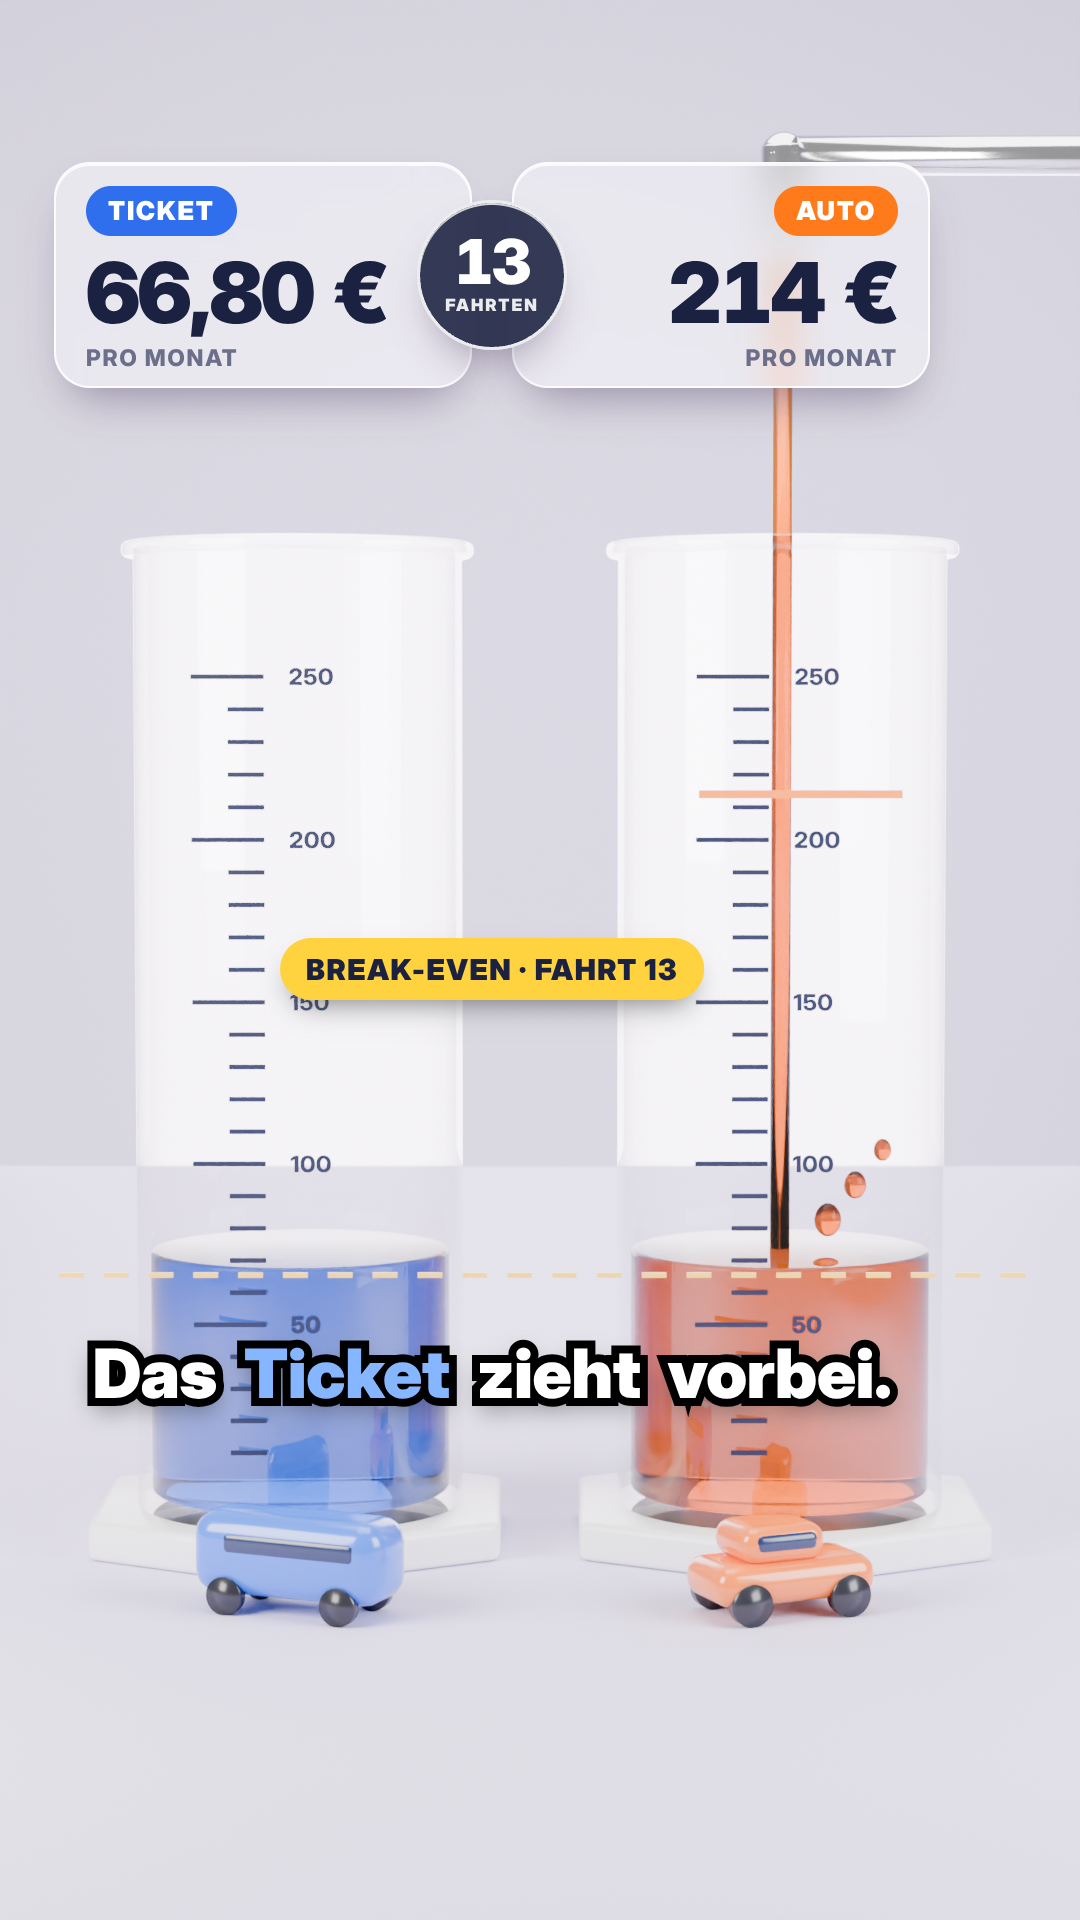
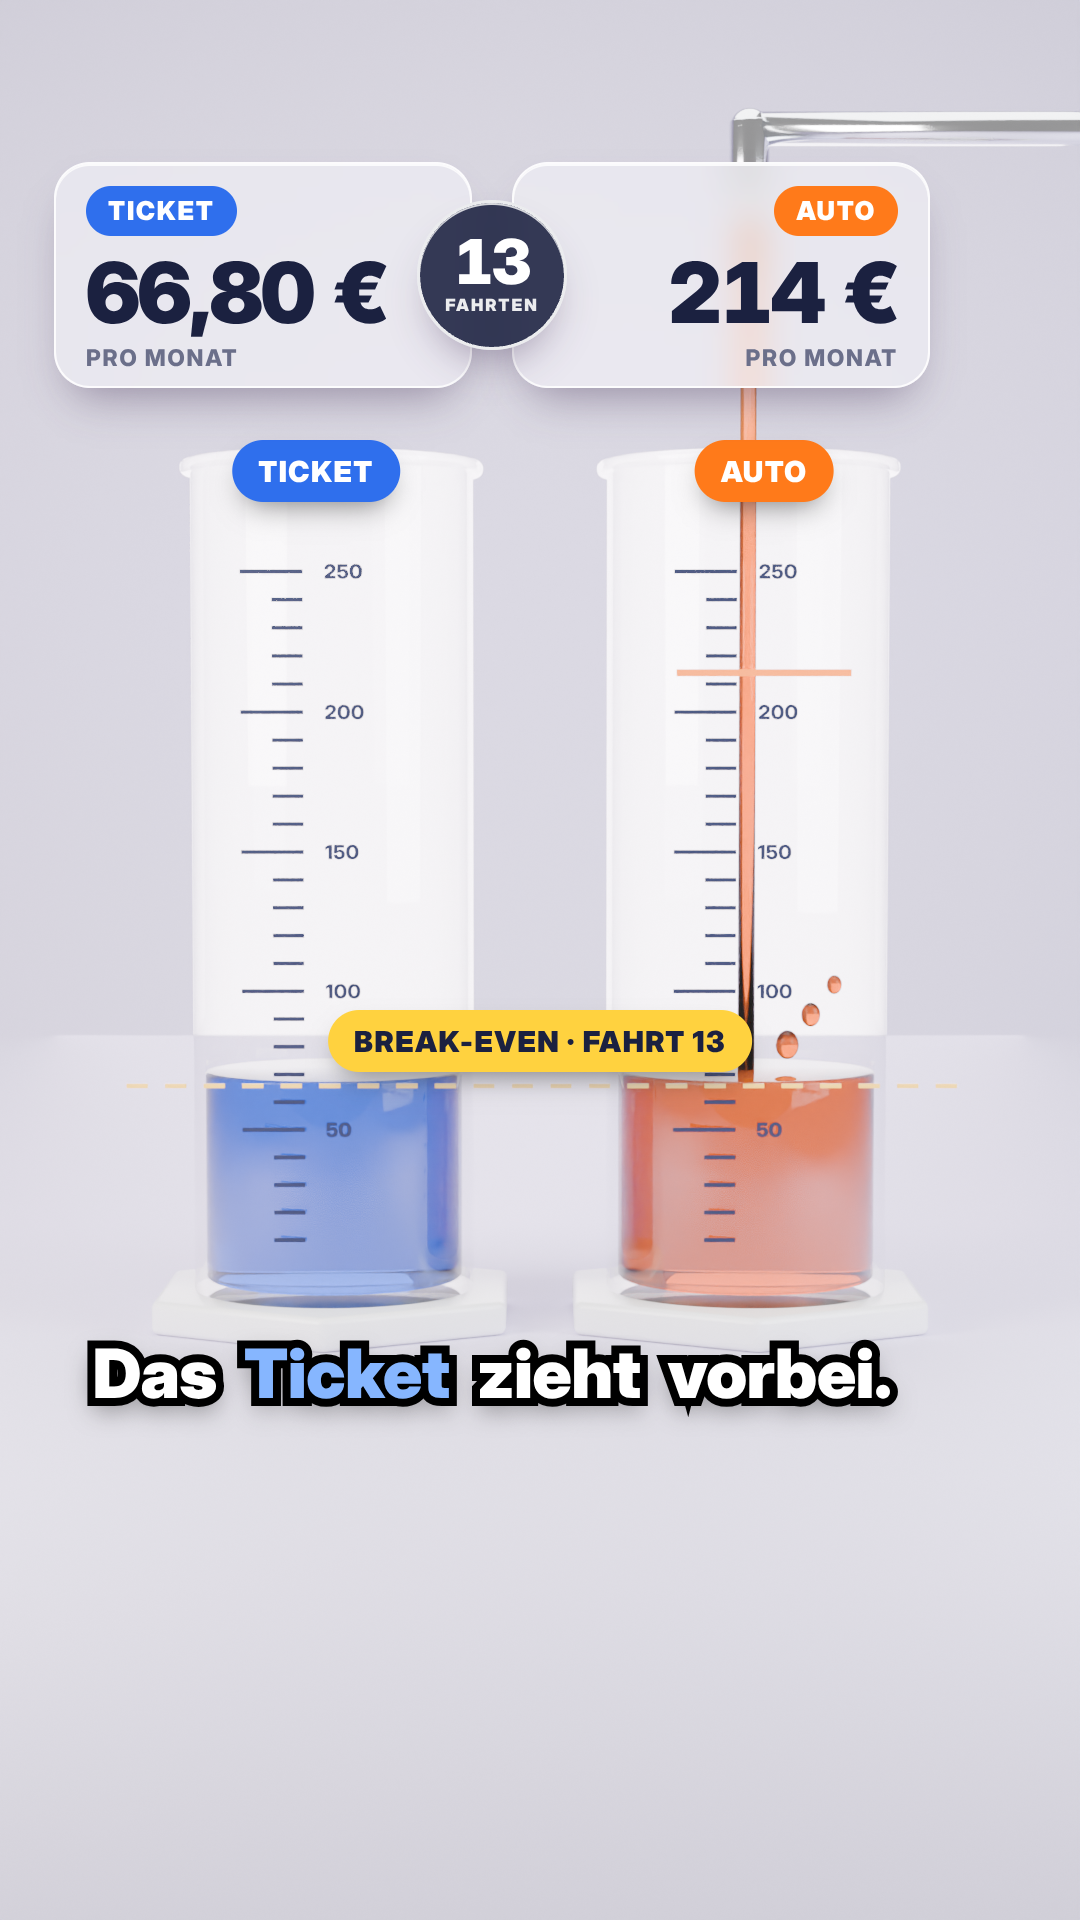
Zwischenstand: neue Stile (Agent arbeitet noch)
Claude-Session: https://claude.ai/code/session_01DQXkz9YLZmqqYzQFpSM2Em

Changed region(s): [[0.1222, 0.1875, 0.8861, 0.875], [0.6722, 0.0312, 1.0, 0.0938]]

diff --git a/docs/10-designstile.md b/docs/10-designstile.md
@@ -83,9 +83,10 @@ Gemeinsam: Maßstab-HUD aus `pipeline/stile/massstab.css` und `massstab.js` (Taf
     - Stärke: Füllstand ist ein Live-Zähler, den jeder ohne Erklärung versteht; erinnert an K4 (Messzylinder), aber fotorealistisch statt 2.5D (A).
     - Schwäche: Glas mit Brechung ist der teuerste Effekt; im Video nur gebacken bzw. mit Three.js-`transmission` vereinfacht (S).
 15. **Holz gebacken: Blender → glTF → Three.js** (`stil_15_holz_gltf.py` + `.html`/`.js`)
-    - Weg: Szene aus Stil 9 bauen → Licht in Texturen backen (Cycles, diffus: direkt + indirekt + Farbe) → eine `.glb`-Datei → Three.js zeigt sie mit unbeleuchteten Materialien, Tiefenunschärfe per Bokeh-Pass, AgX-Tonemapping wie Blender.
+    - Weg: Szene aus Stil 9 bauen → Licht in Texturen backen (Cycles, diffus: direkt + indirekt + Farbe) → eine `.glb`-Datei → Three.js zeigt sie mit unbeleuchteten Materialien, AgX-Tonemapping wie Blender und einer günstigen Tiefenunschärfe (Abstand je Pixel, Weichzeichner in halber und viertel Auflösung, Stärke aus Brennweite und Blende der Blender-Kamera). Der fertige `BokehPass` von Three.js kostete unter Last 2,6–3 s je Bild (F, Messung) und wurde deshalb ersetzt.
     - Regeln: Tisch und Kulisse **ohne** Fahrzeuge backen, Fahrzeuge einzeln backen und mit mitfahrendem Kontaktschatten bewegen; Glanz wird nicht gebacken.
-    - Ergebnis: siehe Bild und Abschnitt 0.3. Unterschied zum Cycles-Bild: weniger Glanz, Schatten der Fahrzeuge weicher, Unschärfe etwas anders (F, Bildvergleich).
+    - Ergebnis: Das Bild ist dem Cycles-Bild 9 sehr nah (F, Bildvergleich). Unterschiede: kein Glanz auf dem Lack, Farben etwas flauer (der AgX-„Punchy“-Look fehlt in Three.js), Kontaktschatten der Fahrzeuge weicher. Zug und Auto lassen sich per `renderAt(t)` verschieben (Beweis der Animierbarkeit).
+    - Fallstrick (behoben): `gltf.scene` ist in Three.js nur eine Gruppe. `overrideMaterial` und `background` wirken erst, wenn sie in eine echte `THREE.Scene` gehängt wird.
 
 ### 0.2 Bewertung aller geprüften Kandidaten (Recherche 31.10./01.11.2026)
 
